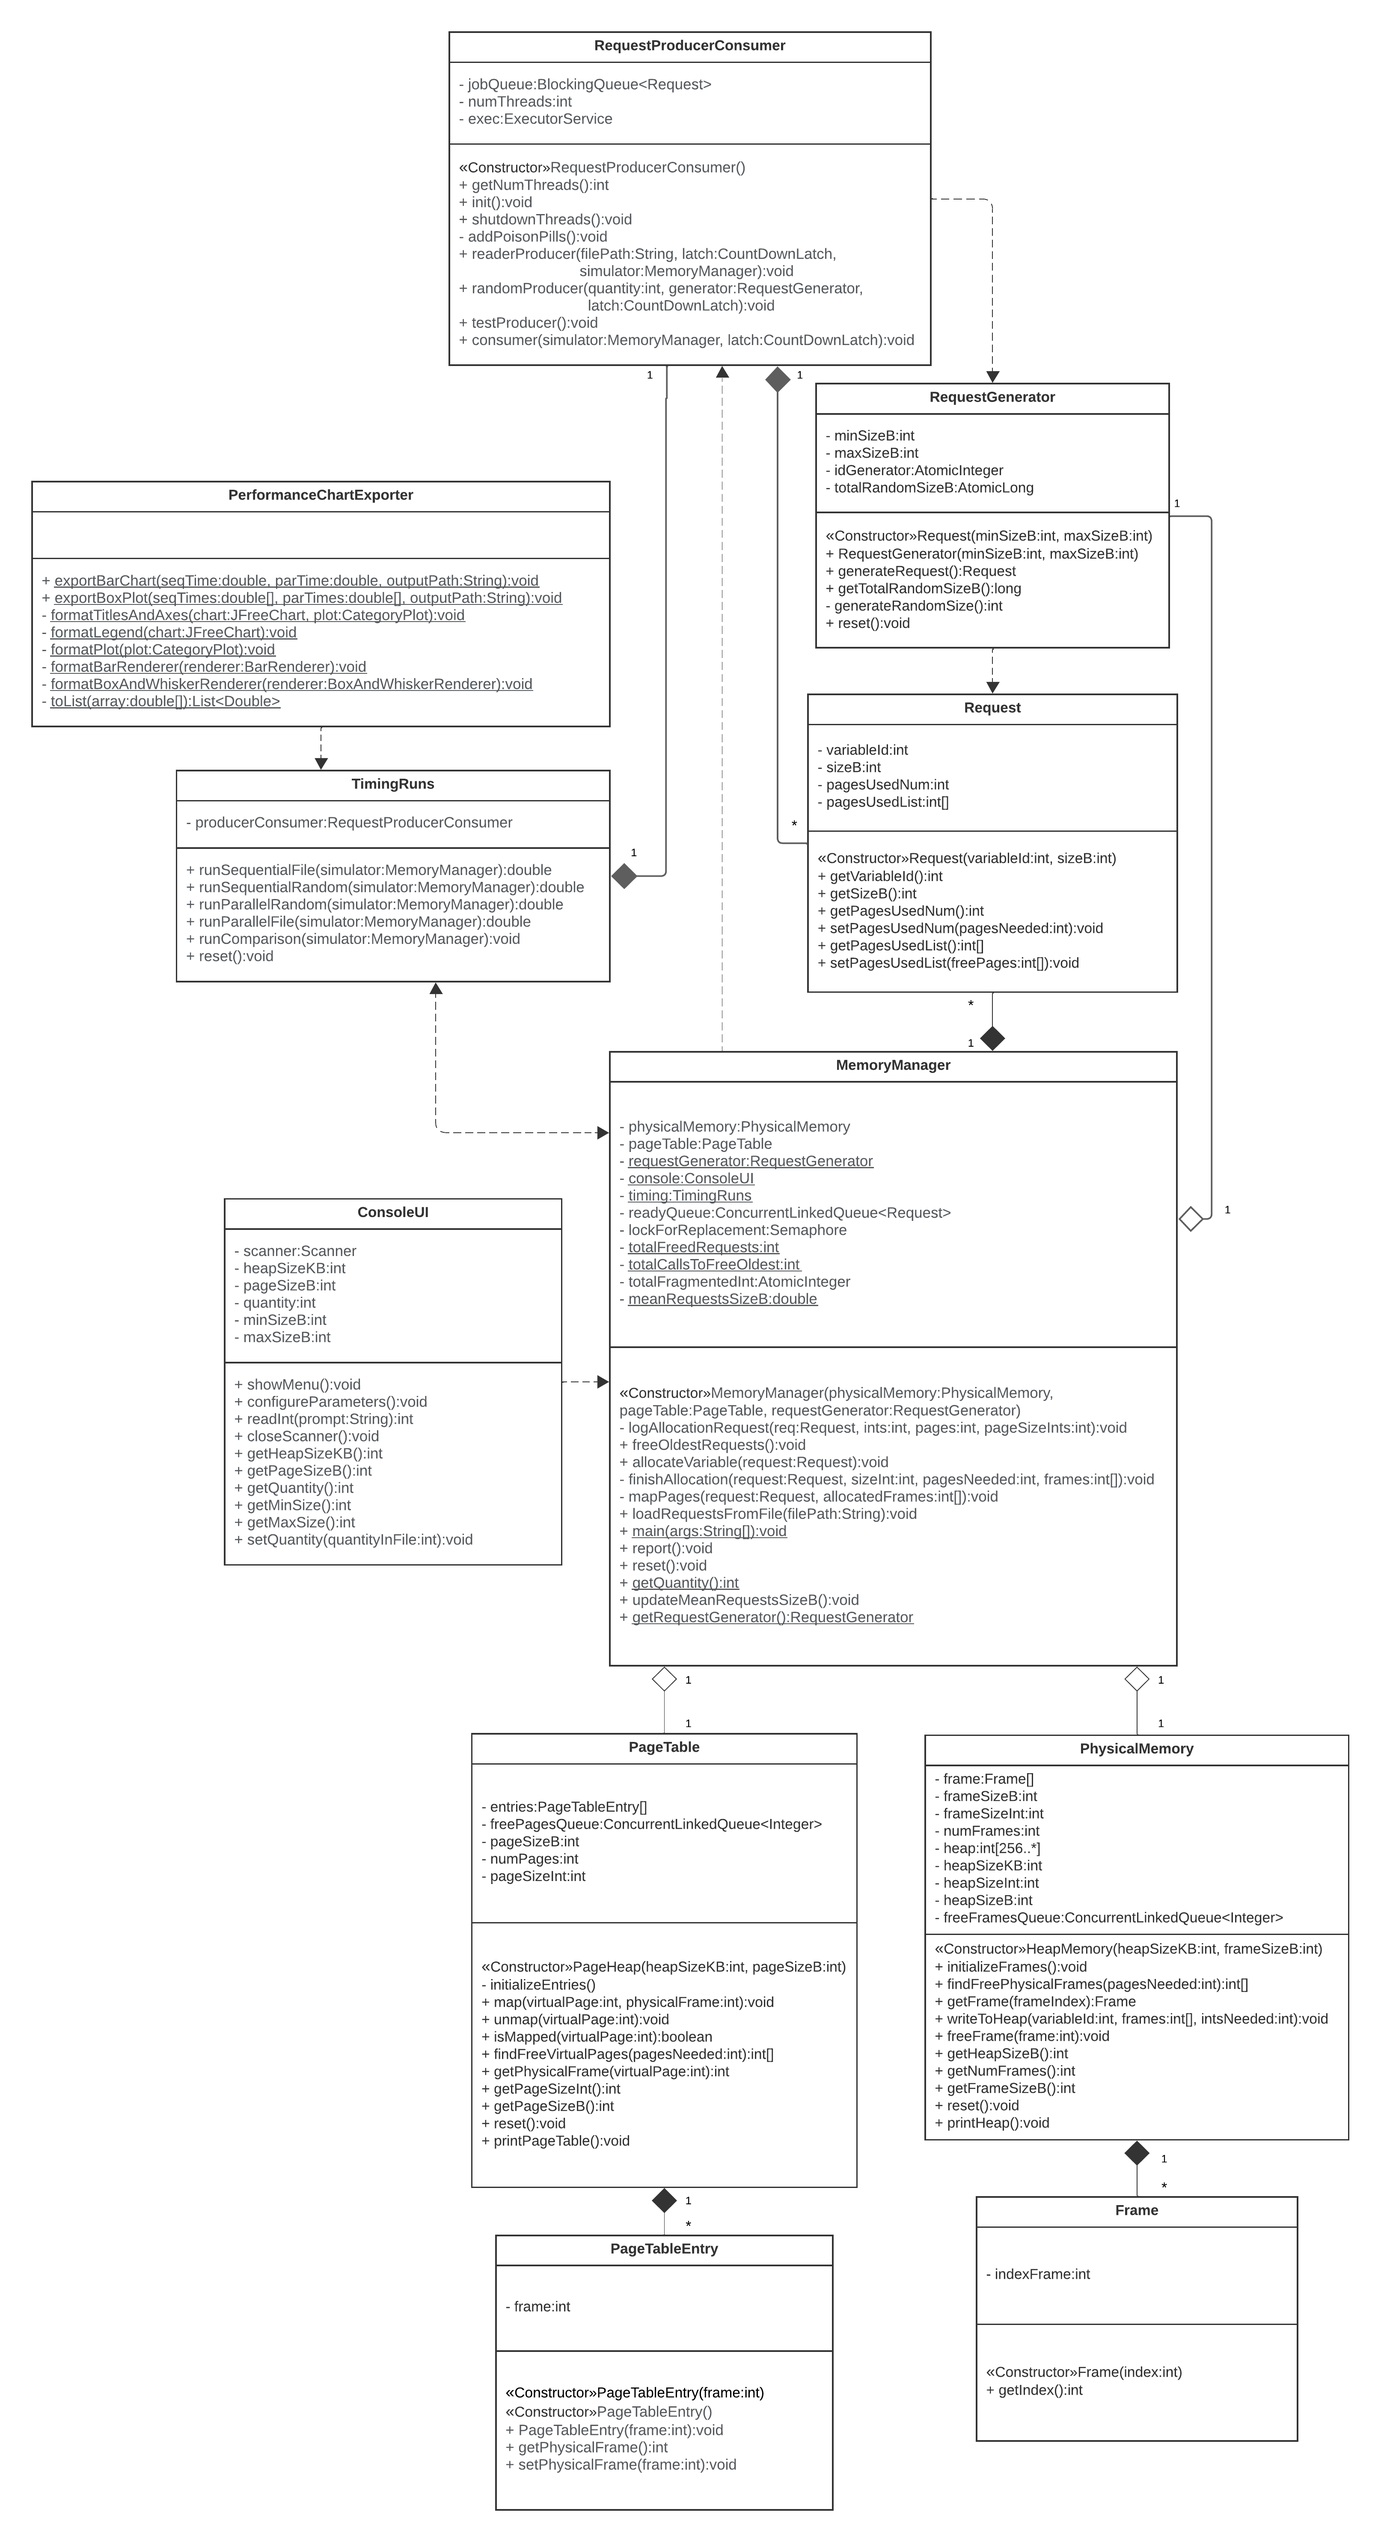
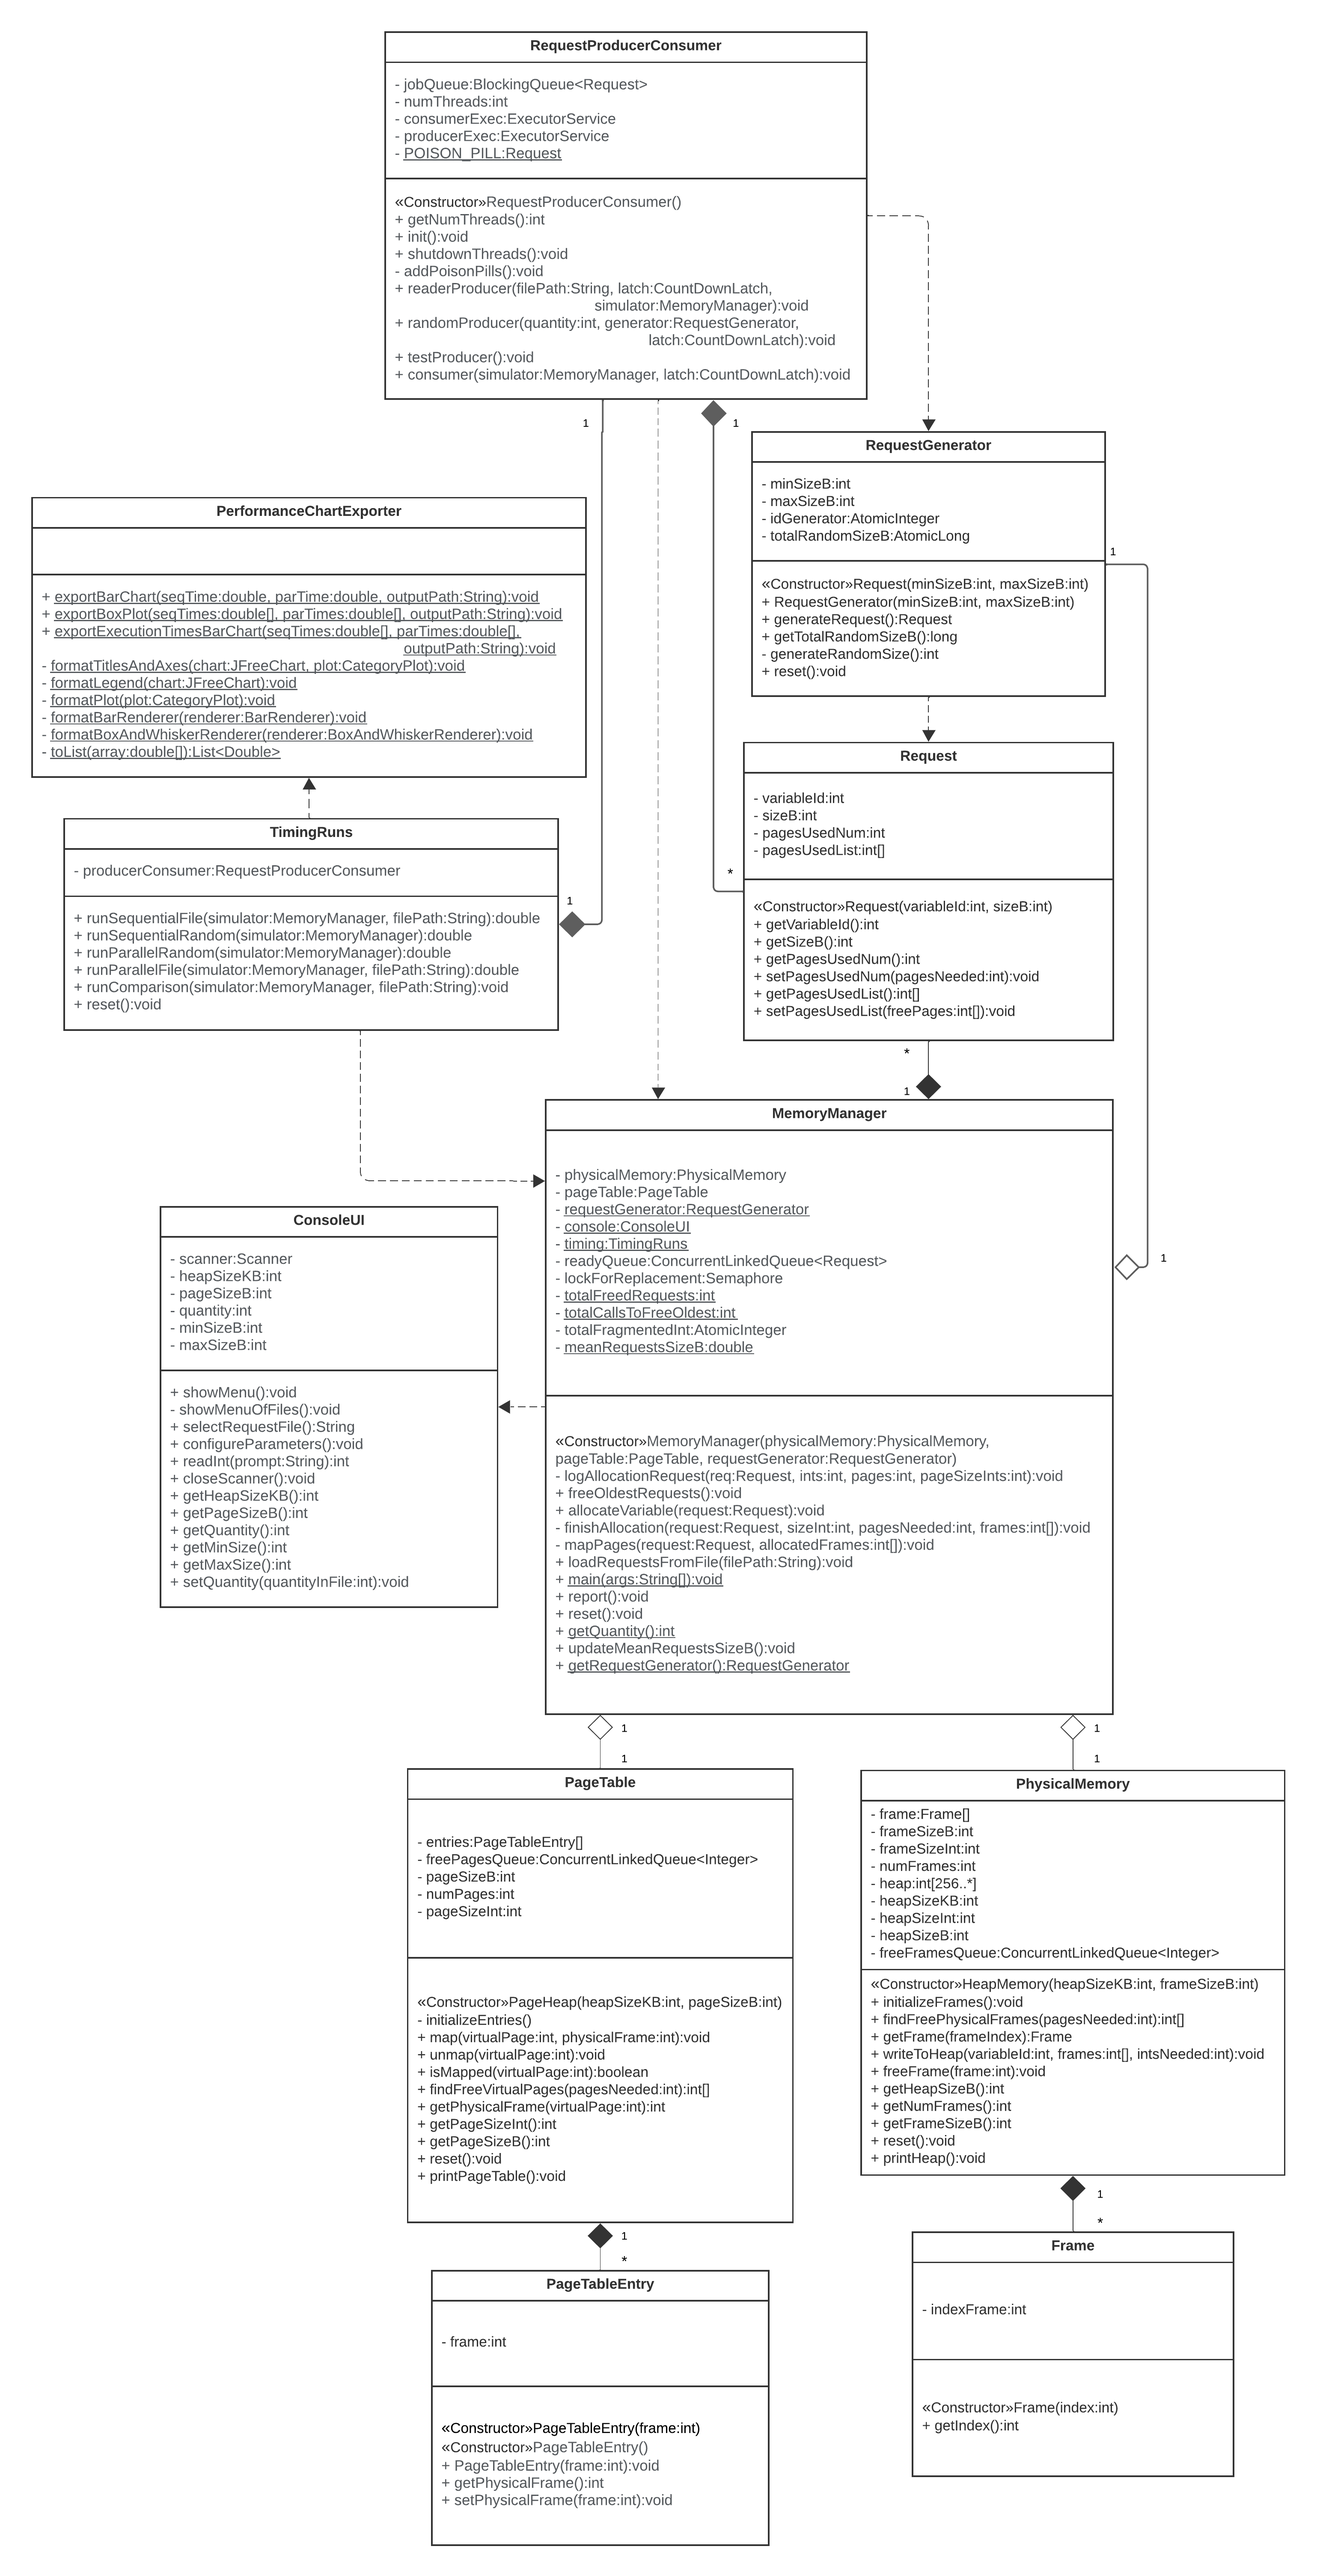
update PerformanceChartExporter to generate barChart of Execution Times and update chart titles. update class diagram.

diff --git a/src/main/java/MMS/utils/PerformanceChartExporter.java b/src/main/java/MMS/utils/PerformanceChartExporter.java
@@ -35,7 +35,7 @@ public class PerformanceChartExporter {
         dataset.addValue(parTime, "Paralelo", "");
 
         JFreeChart barChart = ChartFactory.createBarChart(
-                "Tempo de Execução: Sequencial VS Paralelo",
+                "Tempo Médio de Execução",
                 "Modo de Execução",
                 "Tempo (ms)",
                 dataset
@@ -58,7 +58,6 @@ public class PerformanceChartExporter {
     }
 
 
-
     public static void exportBoxPlot(double[] seqTimes, double[] parTimes, String outputPath) throws IOException {
         /*DefaultBoxAndWhiskerCategoryDataset dataset = new DefaultBoxAndWhiskerCategoryDataset();
         dataset.add(toList(seqTimes), "Tempo de Execução", "Sequencial");
@@ -69,7 +68,7 @@ public class PerformanceChartExporter {
         dataset.add(toList(parTimes), "Paralelo", "");
 
         JFreeChart boxAndWhiskerChart = ChartFactory.createBoxAndWhiskerChart(
-                "Comparação de Desempenho",
+                "Boxplot de Tempos de Execução",
                 "Modo de Execução",
                 "Tempo (ms)",
                 dataset,
@@ -90,6 +89,39 @@ public class PerformanceChartExporter {
         File boxPlotFile = new File(outputPath);
         ChartUtils.saveChartAsPNG(boxPlotFile, boxAndWhiskerChart, 800, 600);
     }
+
+
+    public static void exportExecutionTimesBarChart(double[] seqTimes, double[] parTimes, String outputPath) throws IOException {
+        DefaultCategoryDataset dataset = new DefaultCategoryDataset();
+
+        for (int i = 0; i < seqTimes.length; i++) {
+            String execLabel = Integer.toString(i + 1);
+            dataset.addValue(seqTimes[i], "Sequencial", execLabel);
+            dataset.addValue(parTimes[i],   "Paralelo",   execLabel);
+        }
+
+        JFreeChart chart = ChartFactory.createBarChart(
+                "Tempos por Execução",
+                "Execução",
+                "Tempo (ms)",
+                dataset
+        );
+        chart.setBackgroundPaint(Color.BLACK);
+
+        CategoryPlot plot = chart.getCategoryPlot();
+        formatPlot(plot);
+
+        formatTitlesAndAxes(chart, plot);
+
+        BarRenderer renderer = (BarRenderer) plot.getRenderer();
+        formatBarRenderer(renderer);
+        //renderer.setMaximumBarWidth(0.1);
+
+        formatLegend(chart);
+
+        ChartUtils.saveChartAsPNG(new File(outputPath), chart, 800, 600);
+    }
+
 
 
 
@@ -124,7 +156,7 @@ public class PerformanceChartExporter {
     private static void formatPlot(CategoryPlot plot) {
         plot.setBackgroundPaint(Color.GRAY);
         plot.setRangeGridlinePaint(Color.WHITE);
-        plot.getDomainAxis().setLowerMargin(0.05);
+        plot.getDomainAxis().setLowerMargin(0.05);//
         plot.getDomainAxis().setUpperMargin(0.05);
         //plot.getDomainAxis().setCategoryMargin(0.1);
         //setItemMargin(double) para mesma categoria(series)

diff --git a/src/main/java/MMS/utils/TimingRuns.java b/src/main/java/MMS/utils/TimingRuns.java
@@ -88,12 +88,12 @@ public class TimingRuns {
 
     public void runComparison(MemoryManager simulator, String filePath) {
         System.out.println("\n-- Comparação e Exportação de Gráfico --");
-        final int EXECUTIONS = 10;
+        final int EXECUTIONS = 15;
         double[] seqTimes = new double[EXECUTIONS];
         double[] parTimes = new double[EXECUTIONS];
 
         for(int x = 0; x < EXECUTIONS; x++){
-            System.out.println("\nexecução " + x);
+            System.out.println("\nexecução " + (x+1));
             seqTimes[x] = runSequentialFile(simulator, filePath);
             parTimes[x] = runParallelFile(simulator, filePath);
         }
@@ -104,8 +104,9 @@ public class TimingRuns {
         System.out.printf("Sequencial: %.2f ms | Paralelo: %.2f ms\n", seqMeanTime, parMeanTime);
         try {
             PerformanceChartExporter.exportBarChart(seqMeanTime, parMeanTime, "barChart.png");
-            PerformanceChartExporter.exportBoxPlot(seqTimes, parTimes, "boxPlot.png");
-            System.out.println("Gráficos exportados com sucesso: barChart.png e boxPlot.png");
+            PerformanceChartExporter.exportBoxPlot(seqTimes, parTimes, "boxplot.png");
+            PerformanceChartExporter.exportExecutionTimesBarChart(seqTimes, parTimes, "execTimesBarChart.png");
+            System.out.println("Gráficos exportados com sucesso: barChart.png e boxplot.png e execTimesBarChart.png");
         } catch (IOException e) {
             System.err.println("Erro ao exportar gráfico: " + e.getMessage());
             e.printStackTrace();
@@ -114,6 +115,29 @@ public class TimingRuns {
 
     public void reset(){
         producerConsumer.init();
+    }
+
+
+
+    public void runTest(MemoryManager simulator) {
+        System.out.println("\n-- Execução paralela (test) --");
+        CountDownLatch latch = new CountDownLatch(1 + producerConsumer.getNumConsumers());//encerrar produtor + consumidores
+        producerConsumer.testProducer(latch);
+        producerConsumer.consumer(simulator, latch);
+
+        long startTime = System.nanoTime();
+        try {
+            latch.await();
+        } catch (InterruptedException e) {
+            e.printStackTrace();
+        }
+        long endTime = System.nanoTime();
+
+        producerConsumer.shutdownThreads();
+        double runtimeMS = (endTime - startTime) / 1_000_000.0;
+        System.out.printf("Tempo Sequencial (file): %.2f ms\n", runtimeMS);
+        simulator.report();
+        simulator.reset();
     }
 
 }

diff --git a/src/main/java/MMS/memory/manager/MemoryManager.java b/src/main/java/MMS/memory/manager/MemoryManager.java
@@ -12,15 +12,12 @@ import java.io.BufferedReader;
 import java.io.FileReader;
 import java.io.IOException;
 
-import java.nio.MappedByteBuffer;
-import java.nio.channels.FileChannel;
-import java.nio.file.Path;
-import java.nio.file.Paths;
-import java.nio.file.StandardOpenOption;
+import java.util.Arrays;
 import java.util.concurrent.ConcurrentLinkedQueue;
 import java.util.concurrent.Semaphore;
 import java.util.concurrent.atomic.AtomicBoolean;
 import java.util.concurrent.atomic.AtomicInteger;
+import java.util.stream.Collectors;
 
 public class MemoryManager {
     private final PhysicalMemory physicalMemory;
@@ -67,7 +64,7 @@ public class MemoryManager {
 
         //totalCallsToFreeOldest++;
         int freedFrames = 0;
-        while (freedFrames < targetFreed) {//acumula requests até bater o número de frames alvo ou mais (30%+) // && !readyQueue.isEmpty()
+        while (freedFrames < targetFreed && !readyQueue.isEmpty()) {//acumula requests até bater o número de frames alvo ou mais (30%+) //
             Request oldest = readyQueue.poll();
             freedFrames += oldest.getPagesUsedNum();
             totalFreedRequests++;//total de variáveis removidas da heap
@@ -112,7 +109,7 @@ public class MemoryManager {
                 wakeupSemaphore.release(numSleepers);
             }
         } else {
-            // quem não liberou fica esperando
+            //quem não liberou fica esperando
             //waitingThreads.incrementAndGet();
             try {
                 wakeupSemaphore.acquire();
@@ -207,6 +204,7 @@ public class MemoryManager {
                     simulator.allocateVariable( new Request(3, 230) );
                     simulator.allocateVariable( new Request(4, 256) );
                     simulator.allocateVariable( new Request(5, 530) );
+                    simulator.report();
                     simulator.reset();
                     break;
                 case 1:
@@ -236,6 +234,9 @@ public class MemoryManager {
                     break;
                 case 7:
                     System.out.println("Saindo...");
+                    break;
+                case 222:
+                    timing.runTest(simulator);
                     break;
                 default:
                     System.out.println("Opção inválida. Tente novamente.");

diff --git a/src/main/java/MMS/concurrency/RequestProducerConsumer.java b/src/main/java/MMS/concurrency/RequestProducerConsumer.java
@@ -120,7 +120,7 @@ public class RequestProducerConsumer {
         });
     }
 
-    public void testProducer() {
+    public void testProducer(CountDownLatch latch) {
         producerExec.submit(() -> {
             try {
                 jobQueue.put(new Request(1, 512));
@@ -133,6 +133,7 @@ public class RequestProducerConsumer {
                 System.err.println("Thread interrompida: " + e.getMessage());
             } finally {
                 addPoisonPills();
+                latch.countDown();
             }
         });
     }
